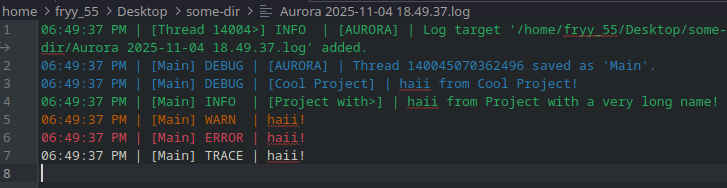
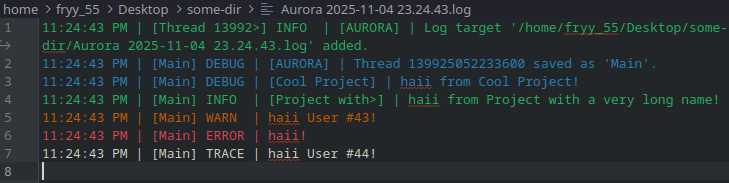
Improve code examples

diff --git a/README.md b/README.md
@@ -6,6 +6,27 @@ A simple C++23 logger library, inspired by [Geode](https://github.com/geode-sdk/
 #include <aurora/aurora.hpp>
 
 
+namespace foo {
+
+template <typename ...Args>
+void trace(std::format_string<Args...> const& formatString, Args&&... args) noexcept {
+	using namespace aurora;
+
+	log::custom(
+		{
+			.logLevel=log::LogLevel::Debug,
+			.logLevelName="TRACE",
+			.headTag="\e[35m",
+			.bodyTag=log::LogLevel::Warn
+		},
+		formatString, std::forward<Args>(args)...
+	);
+
+	return;
+}
+
+}
+
 int main() {
 	using namespace aurora;
 
@@ -21,17 +42,9 @@ int main() {
 
 	log::debug("[Cool Project] haii from Cool Project!");
 	log::info("[Project with a very long name] haii from Project with a very long name!");
-	log::warn("haii!");
+	log::warn("haii {} #{}!", "User", 43);
 	log::error("haii!");
-	log::custom(
-		{
-			.logLevel=log::LogLevel::Debug,
-			.logLevelName="TRACE",
-			.headTag="\e[35m",
-			.bodyTag=log::LogLevel::Warn
-		},
-		"haii!"
-	);
+	foo::trace("haii {} #{}!", "User", 44);
 
 	return 0;
 }
